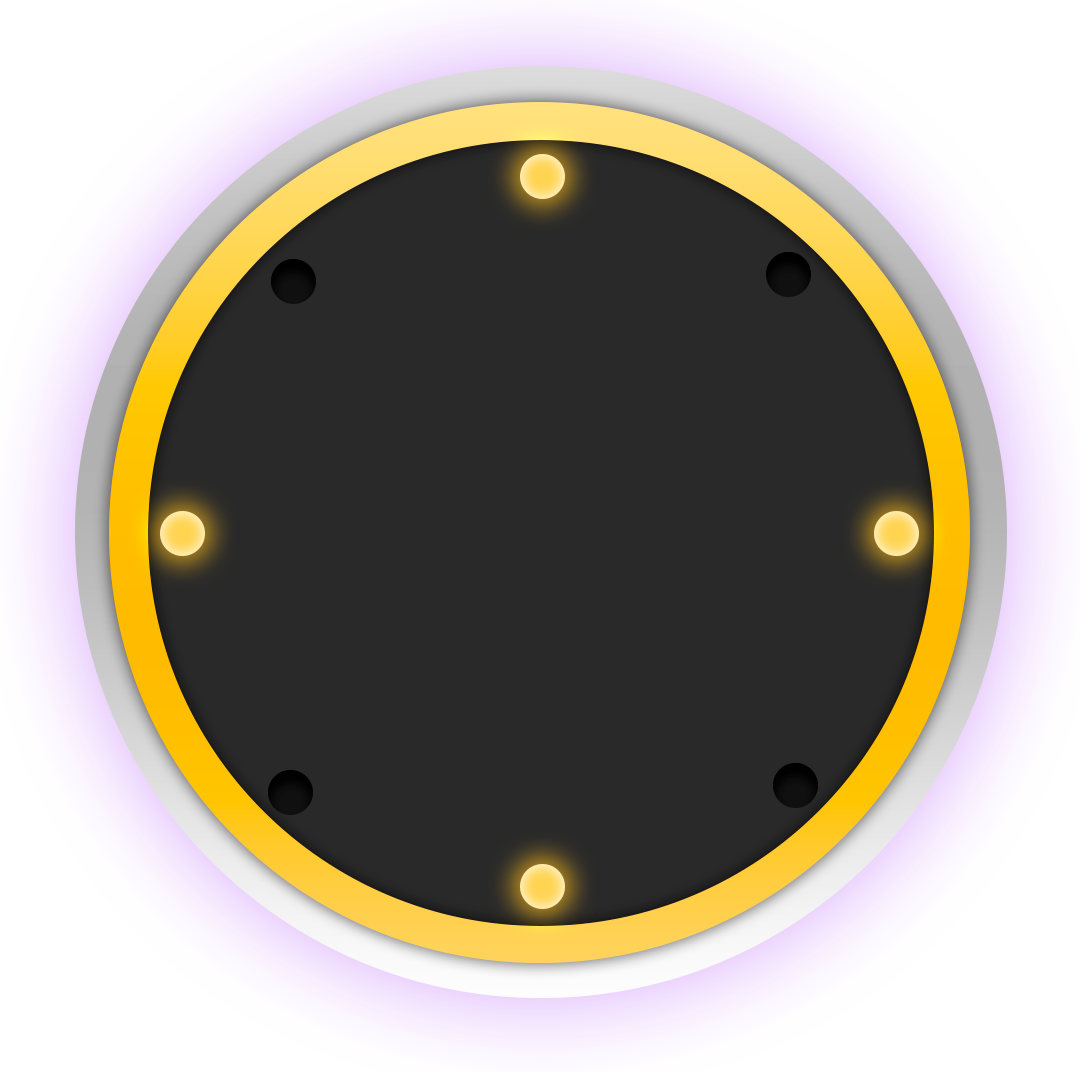
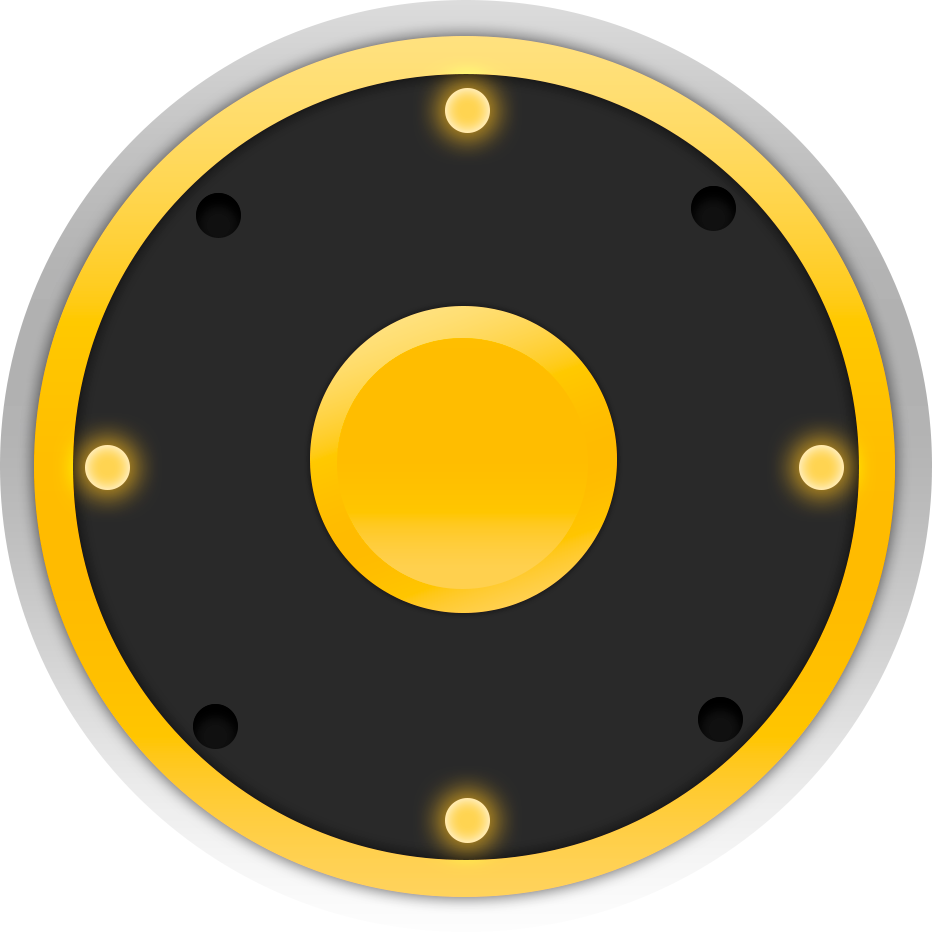
update

diff --git a/css/style.css b/css/style.css
@@ -574,7 +574,8 @@ input {
 
 .roulette__container:nth-child(2) {
   width: 300px;
-  height: 50px; }
+  height: 300px;
+  position: relative; }
 .roulette__container:nth-child(4) {
   position: relative;
   width: 300px;
@@ -597,6 +598,33 @@ input {
     transform: scale(-1, -1);
     background: url("../assets/pictures/svg/maps-and-flags.svg") no-repeat 50% 50%;
     background-size: 50px 50px; }
+
+.roulette-img {
+  position: absolute; }
+  .roulette-img:first-child {
+    width: 100%;
+    top: 0;
+    left: 0;
+    z-index: 1; }
+  .roulette-img:nth-child(2) {
+    width: calc(100% - 70px);
+    top: 35px;
+    left: 35px;
+    z-index: 2; }
+
+.roulette-btn {
+  cursor: pointer;
+  position: absolute;
+  z-index: 3;
+  top: calc(50% - 17px);
+  left: calc(50% - 37.5px);
+  text-transform: uppercase;
+  font-family: "MyriadPro Bold", sans-serif;
+  background: linear-gradient(0deg, #9c0606 33%, #da0909 66%, #9c0606);
+  -webkit-background-clip: text;
+  -webkit-text-fill-color: transparent;
+  color: #0B2349;
+  font-size: 28px; }
 
 .roulette-wrapper {
   width: 100%;

diff --git a/css/style.scss b/css/style.scss
@@ -673,7 +673,8 @@ input {
 .roulette__container {
   &:nth-child(2) {
     width: 300px;
-    height: 50px;
+    height: 300px;
+    position: relative;
   }
   &:nth-child(4) {
     position: relative;
@@ -699,6 +700,37 @@ input {
       background-size: 50px 50px;
     }
   }
+}
+
+.roulette-img {
+  position: absolute;
+  &:first-child {
+    width: 100%;
+    top: 0;
+    left: 0;
+    z-index: 1;
+  }
+  &:nth-child(2) {
+    width: calc(100% - 70px);
+    top: 35px;
+    left: 35px;
+    z-index: 2;
+  }
+}
+
+.roulette-btn {
+  cursor: pointer;
+  position: absolute;
+  z-index: 3;
+  top: calc(50% - 17px);
+  left: calc(50% - 37.5px);
+  text-transform: uppercase;
+  font-family: "MyriadPro Bold", sans-serif;
+  background: linear-gradient(0deg, #9c0606 33%, #da0909 66%, #9c0606);
+  -webkit-background-clip: text;
+  -webkit-text-fill-color: transparent;
+  color: #0B2349;
+  font-size: 28px;
 }
 
 .roulette-wrapper {

diff --git a/next.html b/next.html
@@ -47,7 +47,11 @@
 
         <h1 class="roulette-caption">Забери свой бонус</h1>
 
-        <div class="roulette__container"></div>
+        <div class="roulette__container">
+            <img src="assets/pictures/png/wheel_down.png" class="roulette-img" />
+            <img src="assets/pictures/png/wheel_up.png" id="wheel" class="roulette-img" />
+            <a class="roulette-btn" onclick="moveWheel(this)">жми!</a>
+        </div>
 
         <h2 class="roulette-caption">Выбери казино</h2>
 

diff --git a/js/main.js b/js/main.js
@@ -113,6 +113,11 @@ $(document).ready(function () {
 
 //----------------------------------------------------------------------------------------------------------------------
 
+// Мувы с рулеткой
+function moveWheel() {
+    $('#wheel').addClass('wheel--action');
+}
+
 // Мувы с выбором казино
 function chooseCasino() {
 
